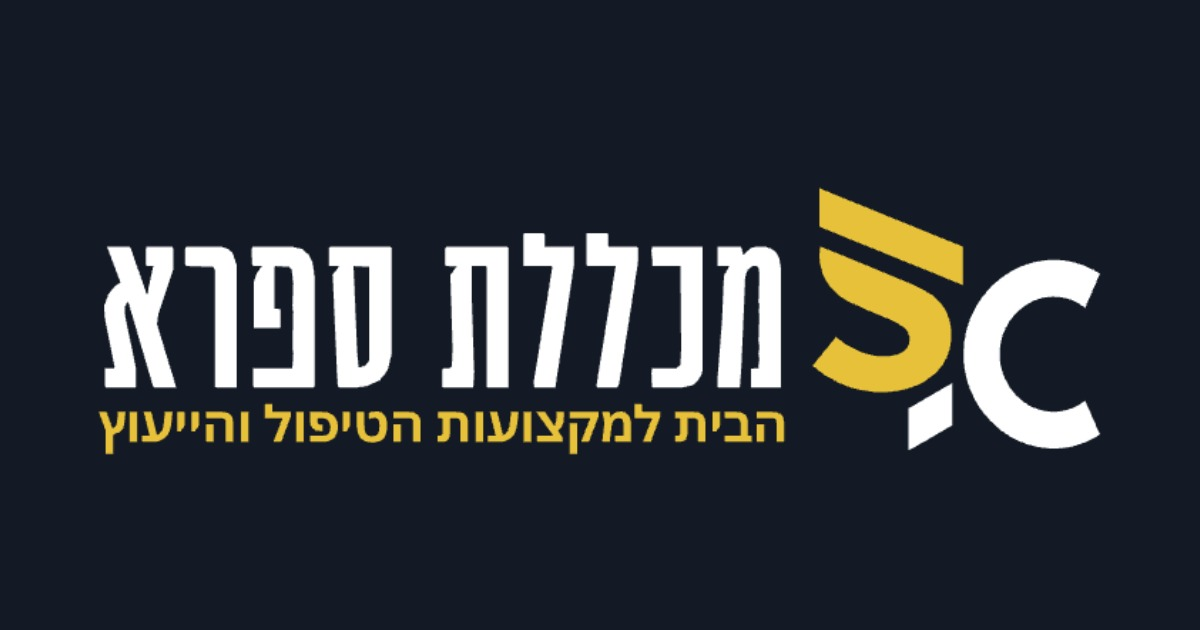
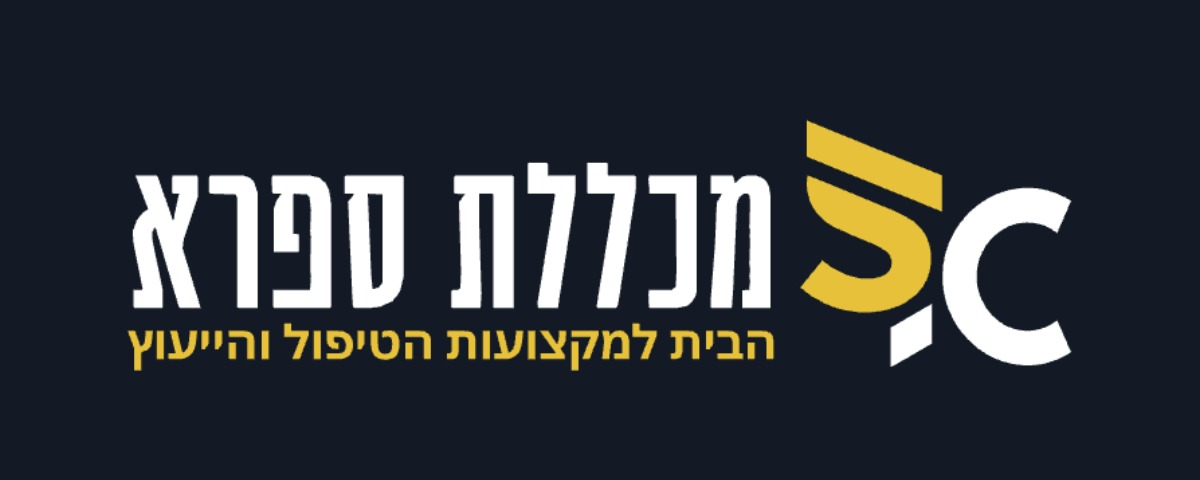
chore: WhatsApp preview image - shorter 1200x480 canvas
Owner wants a less tall preview card; og:image:height updated to 480.

Changed region(s): [[0.0617, 0.25, 0.925, 0.7812]]

diff --git a/src/utils/ogMeta.js b/src/utils/ogMeta.js
@@ -65,7 +65,7 @@ export function injectOgMeta(html, req) {
   const meta = ogMetaFor(req.path);
   const origin = publicOrigin(req);
   const url = `${origin}${req.originalUrl || req.path}`;
-  // JPEG < 300KB בגודל 1200x630 - התנאי של וואטסאפ לכרטיס הגדול (תמונה למעלה, טקסט מתחת)
+  // JPEG < 300KB, 1200x480 (יחס 2.5:1 - הבעלים ביקש כרטיס נמוך יותר) - וואטסאפ מציג כרטיס גדול (תמונה למעלה)
   const image = `${origin}/og-image.jpg`;
   const tags = [
     `<meta property="og:type" content="website" />`,
@@ -78,7 +78,7 @@ export function injectOgMeta(html, req) {
     `<meta property="og:image:secure_url" content="${esc(image.replace(/^http:/, "https:"))}" />`,
     `<meta property="og:image:type" content="image/jpeg" />`,
     `<meta property="og:image:width" content="1200" />`,
-    `<meta property="og:image:height" content="630" />`,
+    `<meta property="og:image:height" content="480" />`,
     `<meta property="og:image:alt" content="${esc(SITE)}" />`,
     `<meta property="og:locale" content="he_IL" />`,
     `<meta name="description" content="${esc(meta.description)}" />`,
